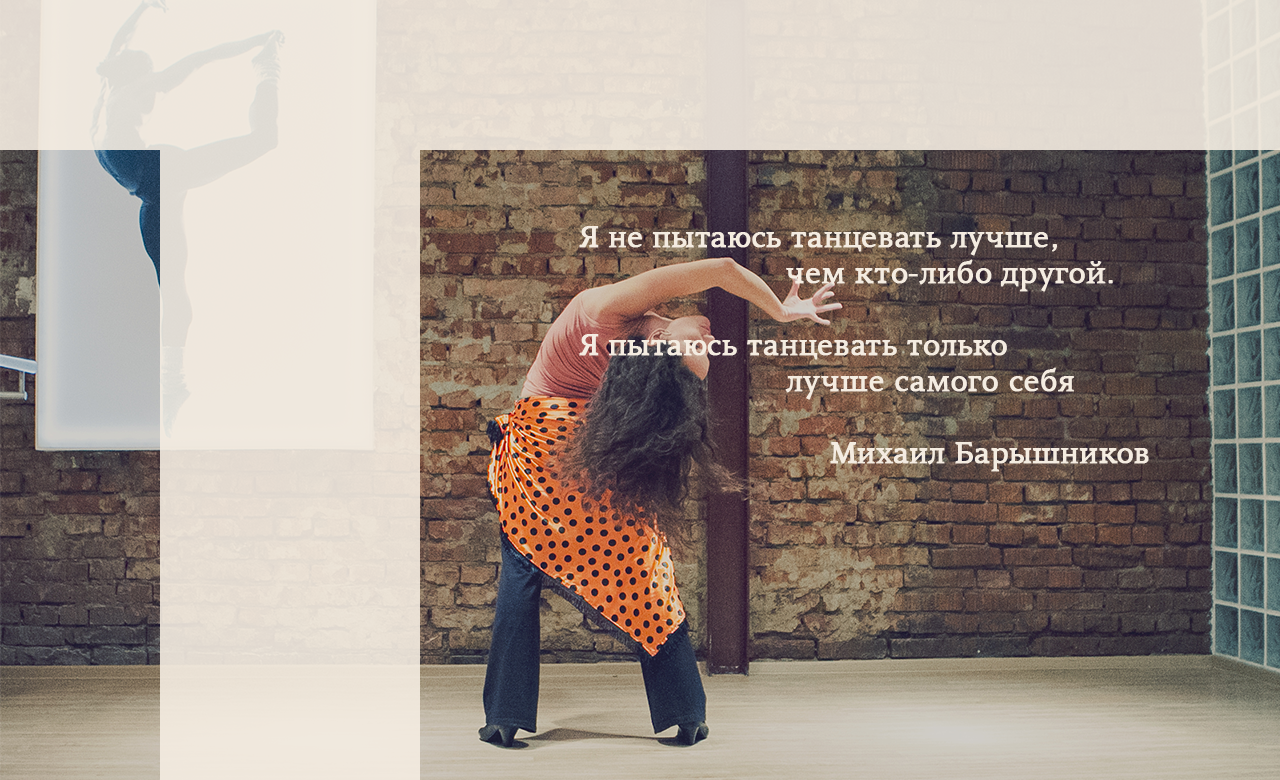
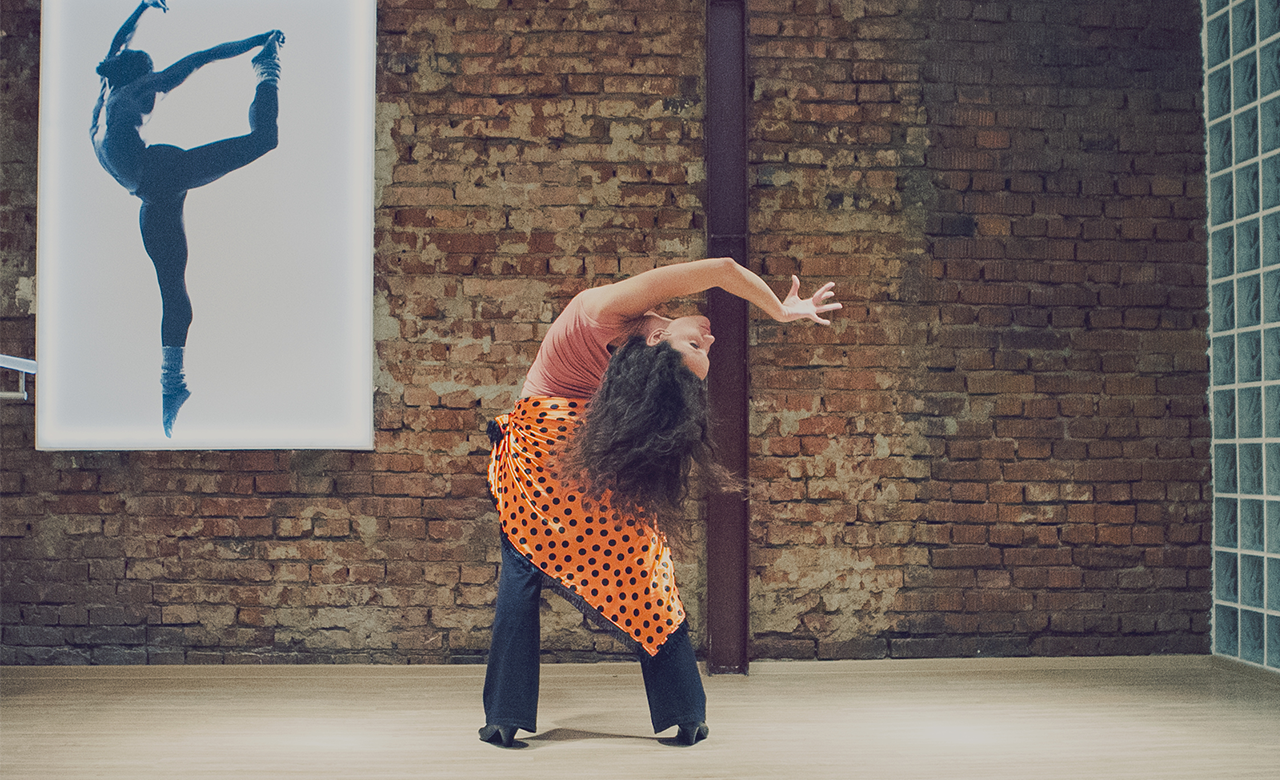
Main page done. Some css issues fixed.

diff --git a/app/assets/stylesheets/application.css.sass b/app/assets/stylesheets/application.css.sass
@@ -15,6 +15,7 @@ body, html
 #document
   position: relative
   min-height: 100%
+  margin-bottom: -31px
   &:after
     display: block
     content: ""
@@ -23,17 +24,13 @@ body, html
   margin: 0 auto
   width: 960px
 
-#wrapper-background
-  margin: 0 auto
-  width: 1280px
-  background-image: url(/images/home_background.png)
-
 .content
   position: relative
   margin: 0 auto
   width: 960px
   display: table
   min-height: 640px
+  margin-top: 30px
 
 .gradient
   position: absolute
@@ -43,4 +40,36 @@ body, html
   top: 153px
   width: 100%
 
+#homepage
+  position: relative
+  &:after
+    display: block
+    content: ""
+  margin: 0 auto
+  width: 1280px
+  height: 100%
+  background-image: url(/images/home_background.png)
+  background-size: cover
+  min-height: 790px
+  margin-bottom: -31px
 
+#menu_background
+  height: 150px
+
+#menu_bg_1
+  position: absolute
+  float: left
+  width: 160px
+  height: 150px
+  background-color: rgba(244, 236, 225, 0.85)
+
+#menu_bg_2
+  position: absolute
+  left: 420px
+  width: 860px
+  height: 150px
+  background-color: rgba(244, 236, 225, 0.85)
+
+#menu_container
+  margin: 0 auto
+  width: 960px

diff --git a/app/assets/stylesheets/lib/news.css.sass b/app/assets/stylesheets/lib/news.css.sass
@@ -1,12 +1,21 @@
 #news_container
+  z-index: 1
+  position: absolute
+  margin-top: -150px
+  display: table
   width: 260px
+  background-color: rgba(244, 236, 225, 0.85)
+  height: 100%
   text-align: center
   color: #626c6c
   font-family: Mirta
 
+  #news_empty_area
+    height: 150px
+
   p
     font-size: 24px
-    margin-bottom: 25px
+    margin: 25px 0
 
   #news_block
     margin: 0 5px 7px 7px
@@ -37,4 +46,6 @@
   background: #f4ece1
   width: 100%
   min-height: 640px
+
+
 

diff --git a/app/assets/stylesheets/partials/_menu.css.sass b/app/assets/stylesheets/partials/_menu.css.sass
@@ -1,10 +1,12 @@
 .menu_block
+  z-index: 10
   position: relative
 
   ul.menu
+    opacity: 0.8
     list-style: none
     display: block
-    margin: 0 auto 20px
+    margin: 0 auto
     padding: 0
     font-size: 20px
     text-align: center
@@ -33,6 +35,6 @@
           text-decoration: underline
 
     li.menu_logo
-      margin-top: 0px
-
-
+      margin-top: 0
+      a
+        padding: 0 15px

diff --git a/app/assets/stylesheets/partials/_footer.css.sass b/app/assets/stylesheets/partials/_footer.css.sass
@@ -1,10 +1,11 @@
 #footer
-  postition: absolute
+  position: relative
+  z-index: 9
   width: 100%
 
   .strip
     background: #3e1f31
-    padding: 8px
+    padding: 8px 0
 
     .footer_text
       margin: 0 auto
